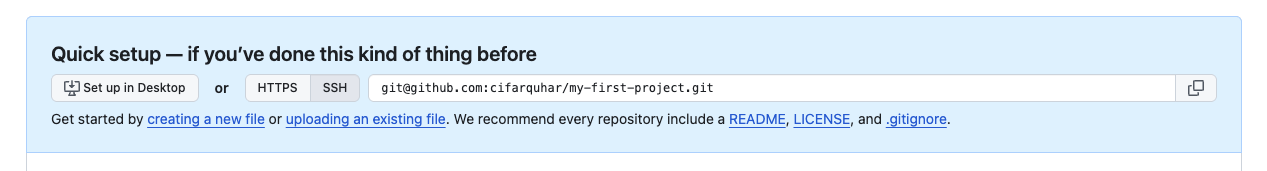
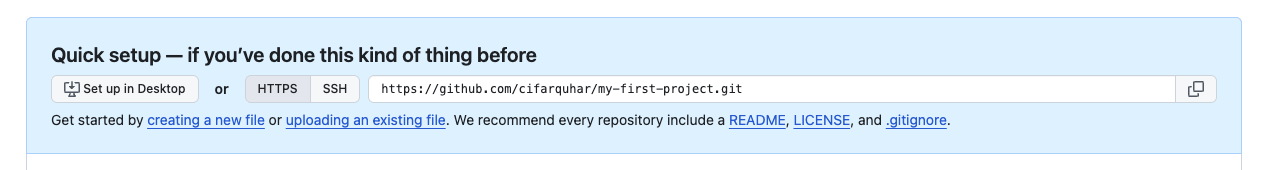
make https explicit in git setup

diff --git a/common-content/en/module/onboarding/git/pushing-and-pulling/index.md b/common-content/en/module/onboarding/git/pushing-and-pulling/index.md
@@ -30,13 +30,11 @@ You have commits on your local machine, but they're not on GitHub yet. Send them
 
 ![publish branch button in VSCode](publish-branch.png)
 
+> If you don't see the "Publish Branch" button you can click the three dots again to access the menu and select "push"
+
 This is called **pushing**. We don't need to push every time we commit, but our colleagues won't be able to access it if we don't.
 
 You might be asked to authenticate. Follow GitHub's instructions. Depending on how you linked the repositories you may be able to authenticate using SSH instead of entering a username and password.
-
-{{<note type="tip" title="SSH">}}
-The **Secure Shell Protocol** (SSH) enables encrypted connections between two computers. We recommend taking the time to [configure SSH with GitHub](https://docs.github.com/en/authentication/connecting-to-github-with-ssh) which will avoid the need to keep entering passwords when pushing and pulling.
-{{</note>}}
 
 ### Step 2: View Your Code on GitHub
 

diff --git a/common-content/en/module/onboarding/git/remote-repositories/index.md b/common-content/en/module/onboarding/git/remote-repositories/index.md
@@ -53,7 +53,7 @@ If you initialize with files on GitHub, your local and remote repositories will 
 
 GitHub will show you a page with instructions. You need to tell your local Git about this remote repository.
 
-First copy the url to your clipboard.
+First copy the url to your clipboard. Make sure you have selected the `HTTPS` option and the url begins with `https://`. 
 
 ![github url for a newly created repo](github-new-repo.png)
 
